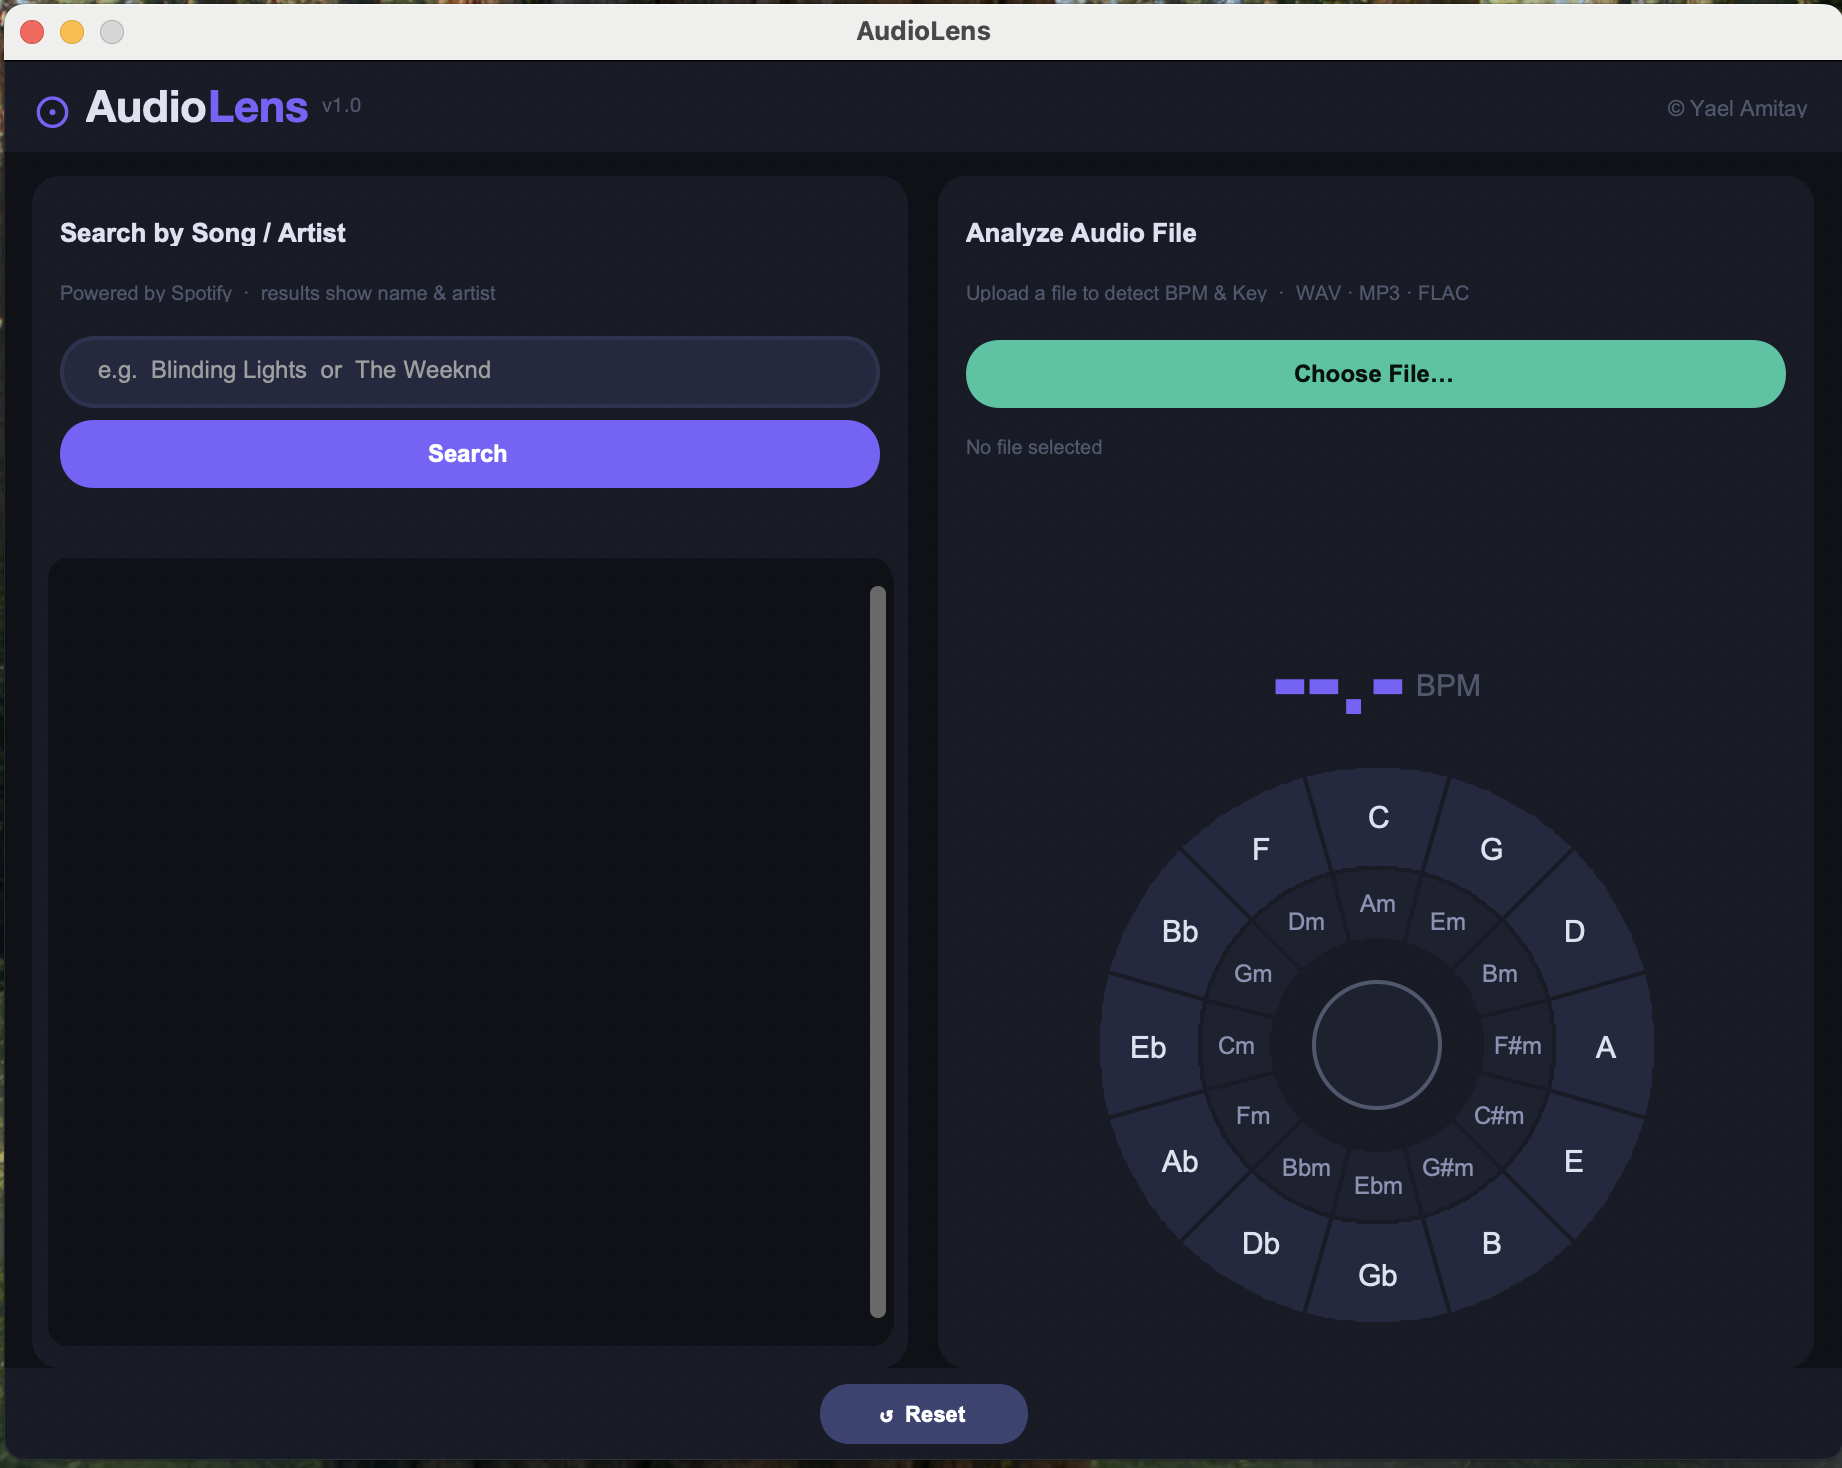
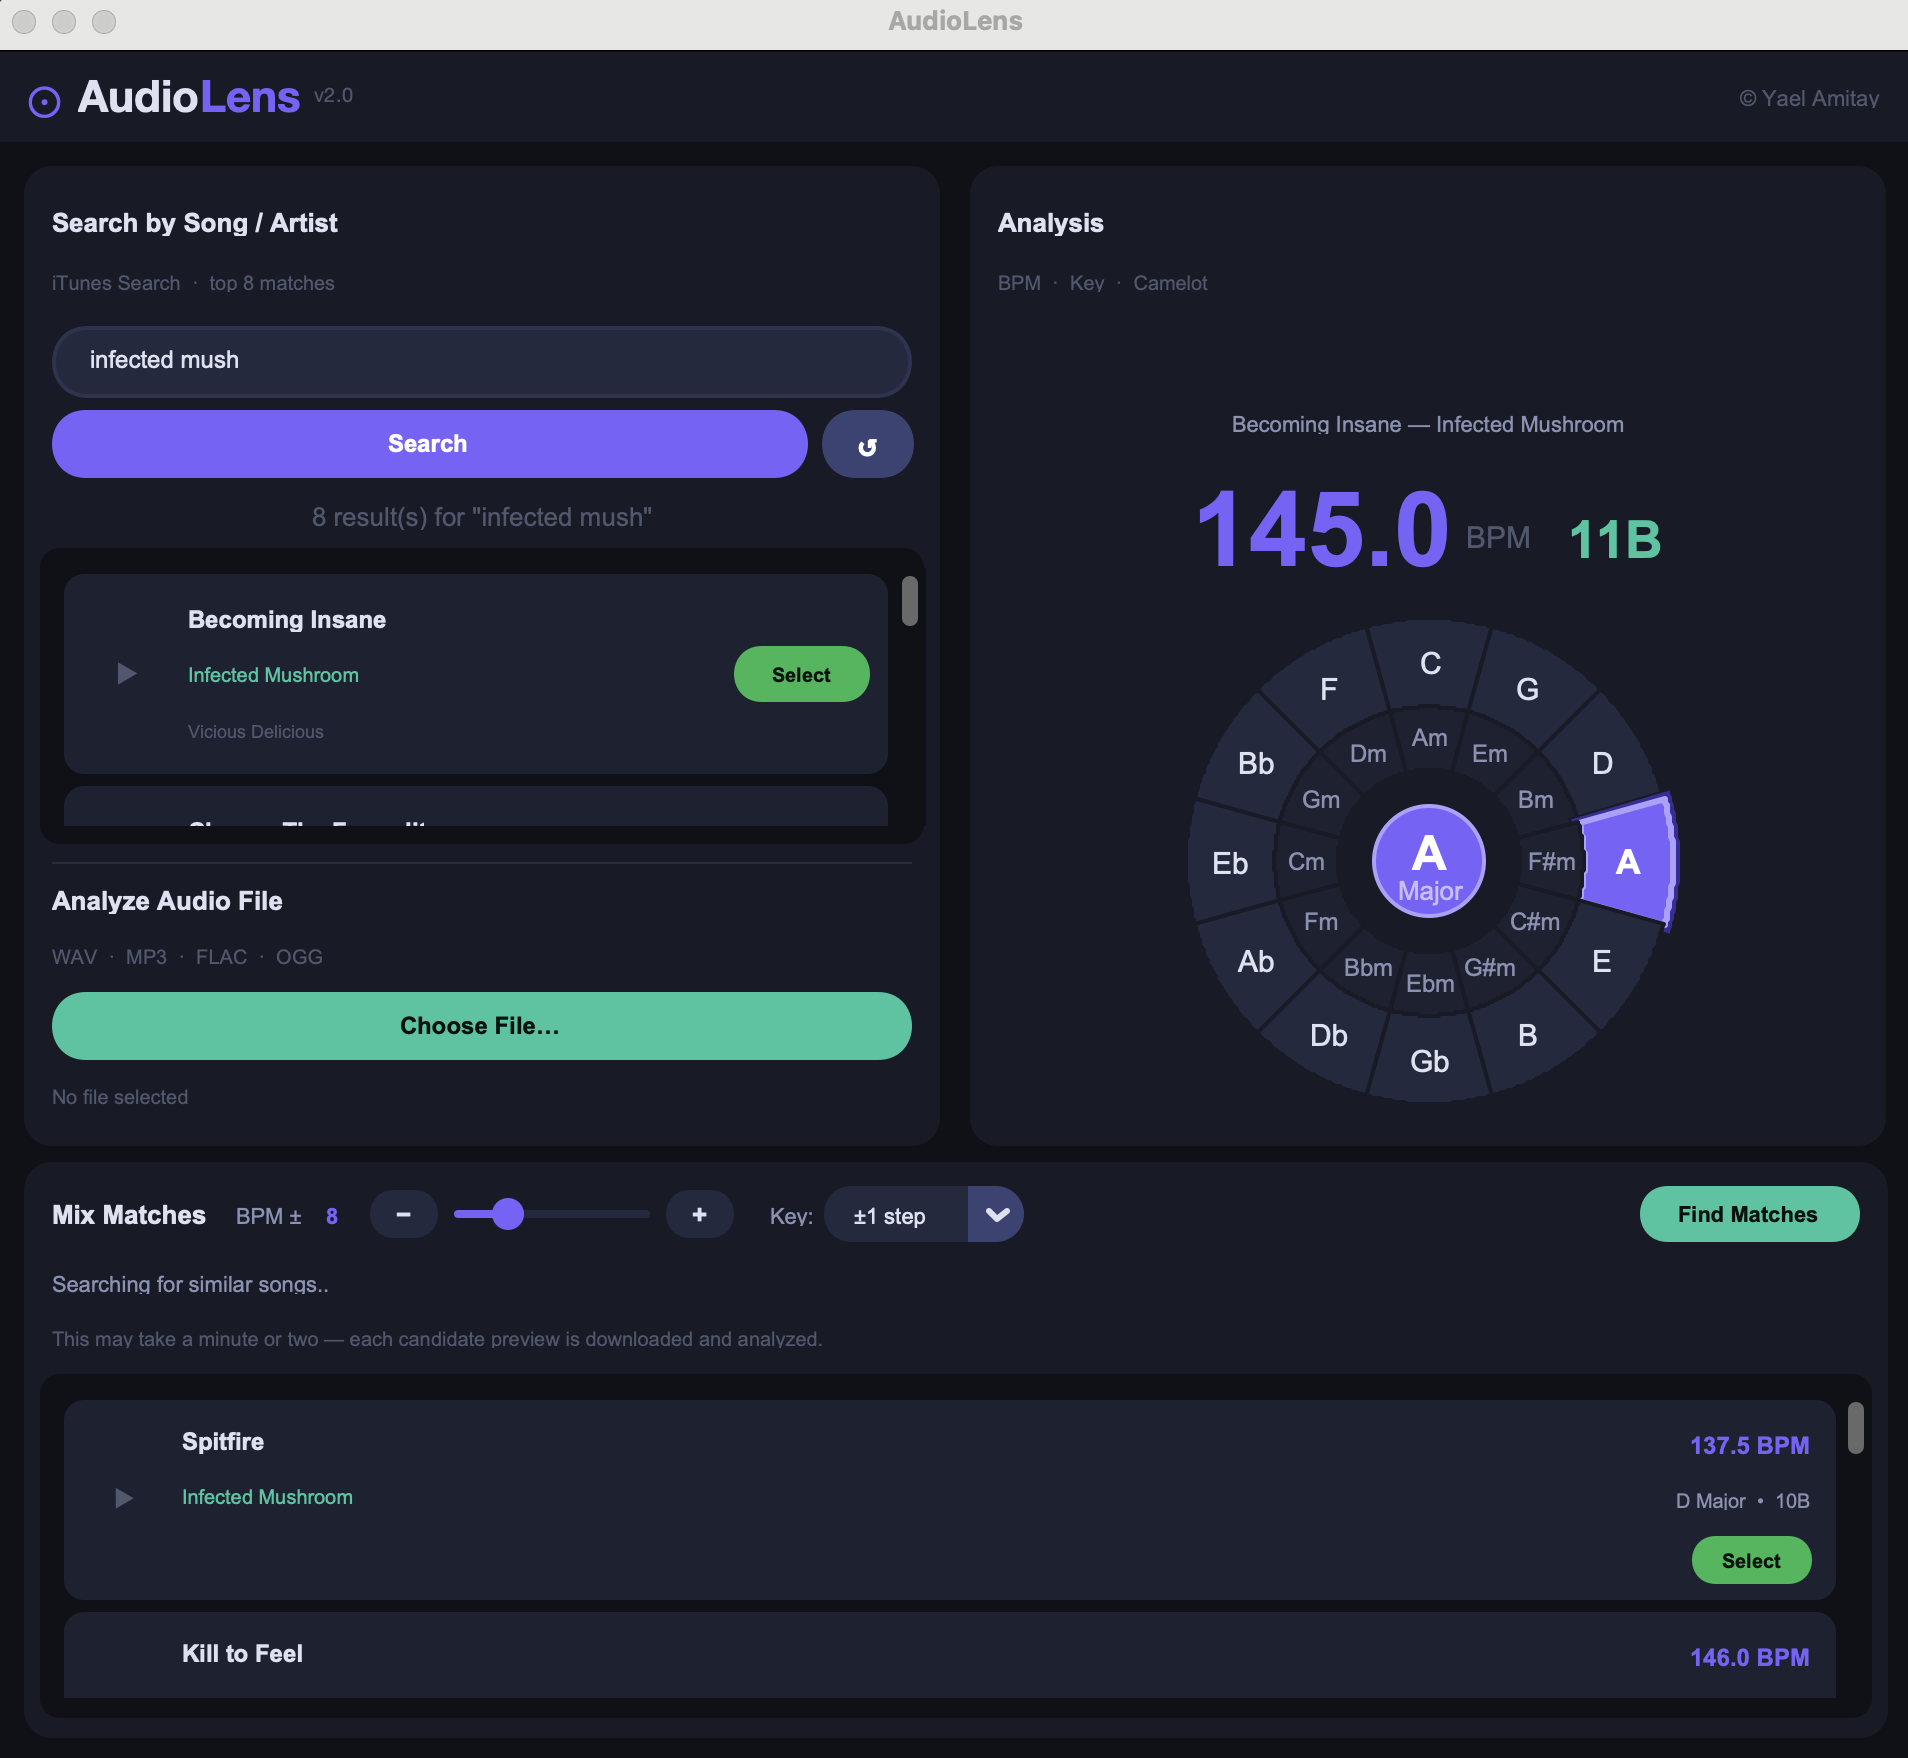
Update screenshot and README title to v2.0
Replaces v1 screenshot (Spotify UI) with v2.0 screenshot showing
Mix Matches, Camelot wheel, iTunes search, and BPM/key analysis panel.
Updates README title to include version number.

diff --git a/README.md b/README.md
@@ -1,10 +1,10 @@
-# ⊙ AudioLens
+# ⊙ AudioLens v2.0
 
 **A desktop application for BPM and musical key analysis, built for DJs and music producers.**
 
 🌐 **Live website:** [audiolens.netlify.app](https://audiolens.netlify.app)
 
-![AudioLens screenshot](screenshot.png)
+![AudioLens v2.0 screenshot](screenshot.png)
 
 > ⚠ **This is v2.0 — an experimental release.** BPM and key detection may be inaccurate on some tracks. Mix Matches results are algorithmic and not always harmonically perfect. Expect bugs. Feedback is very welcome.
 
